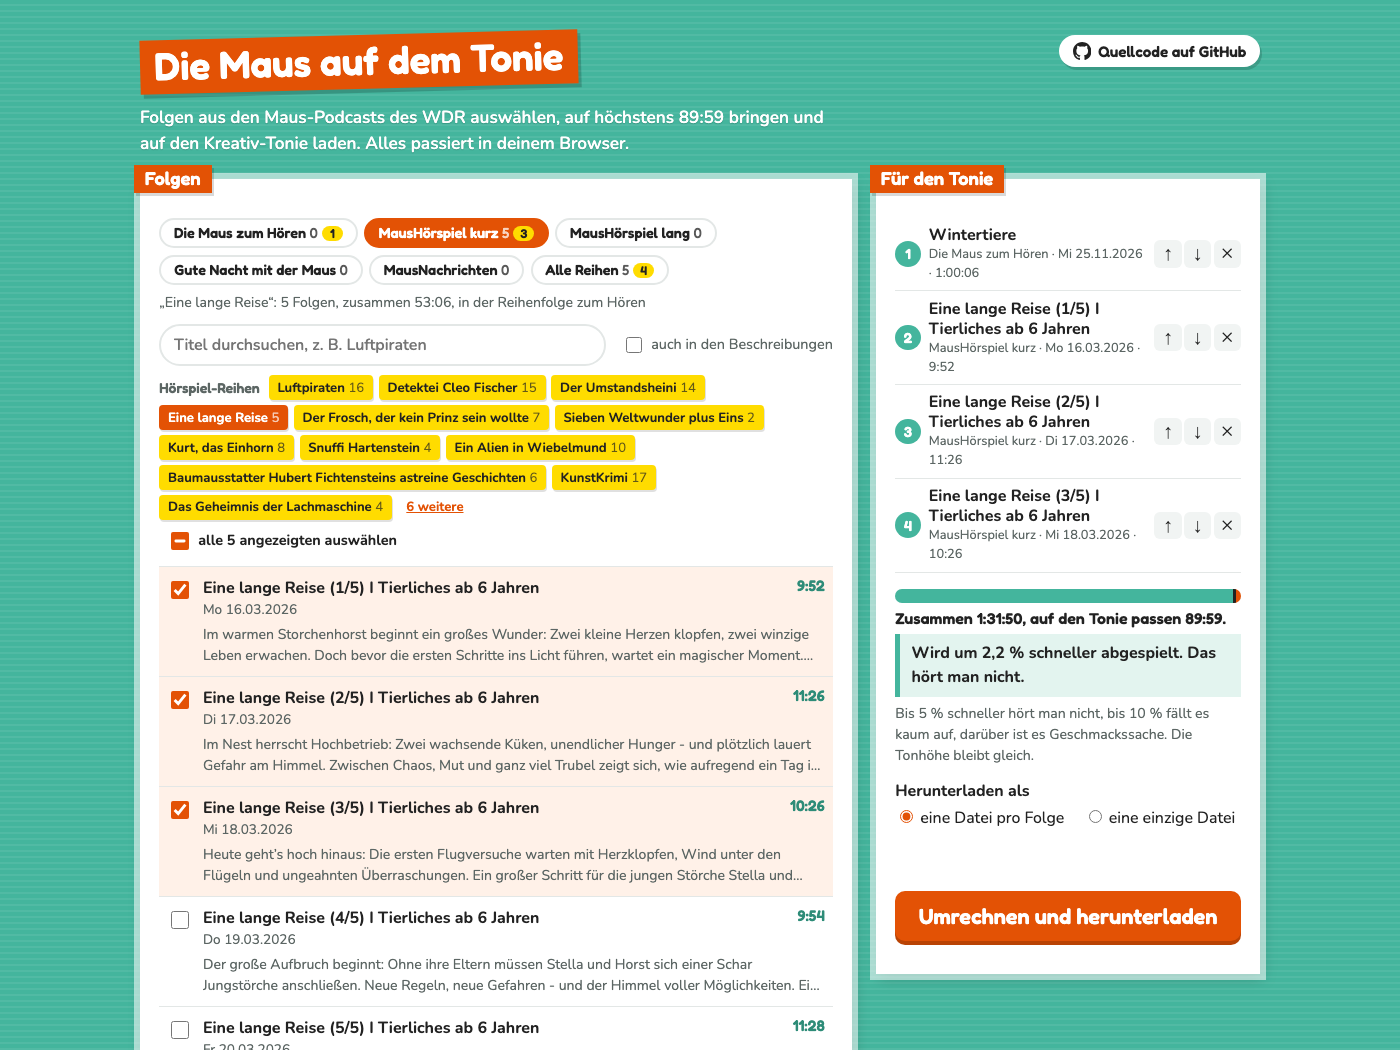
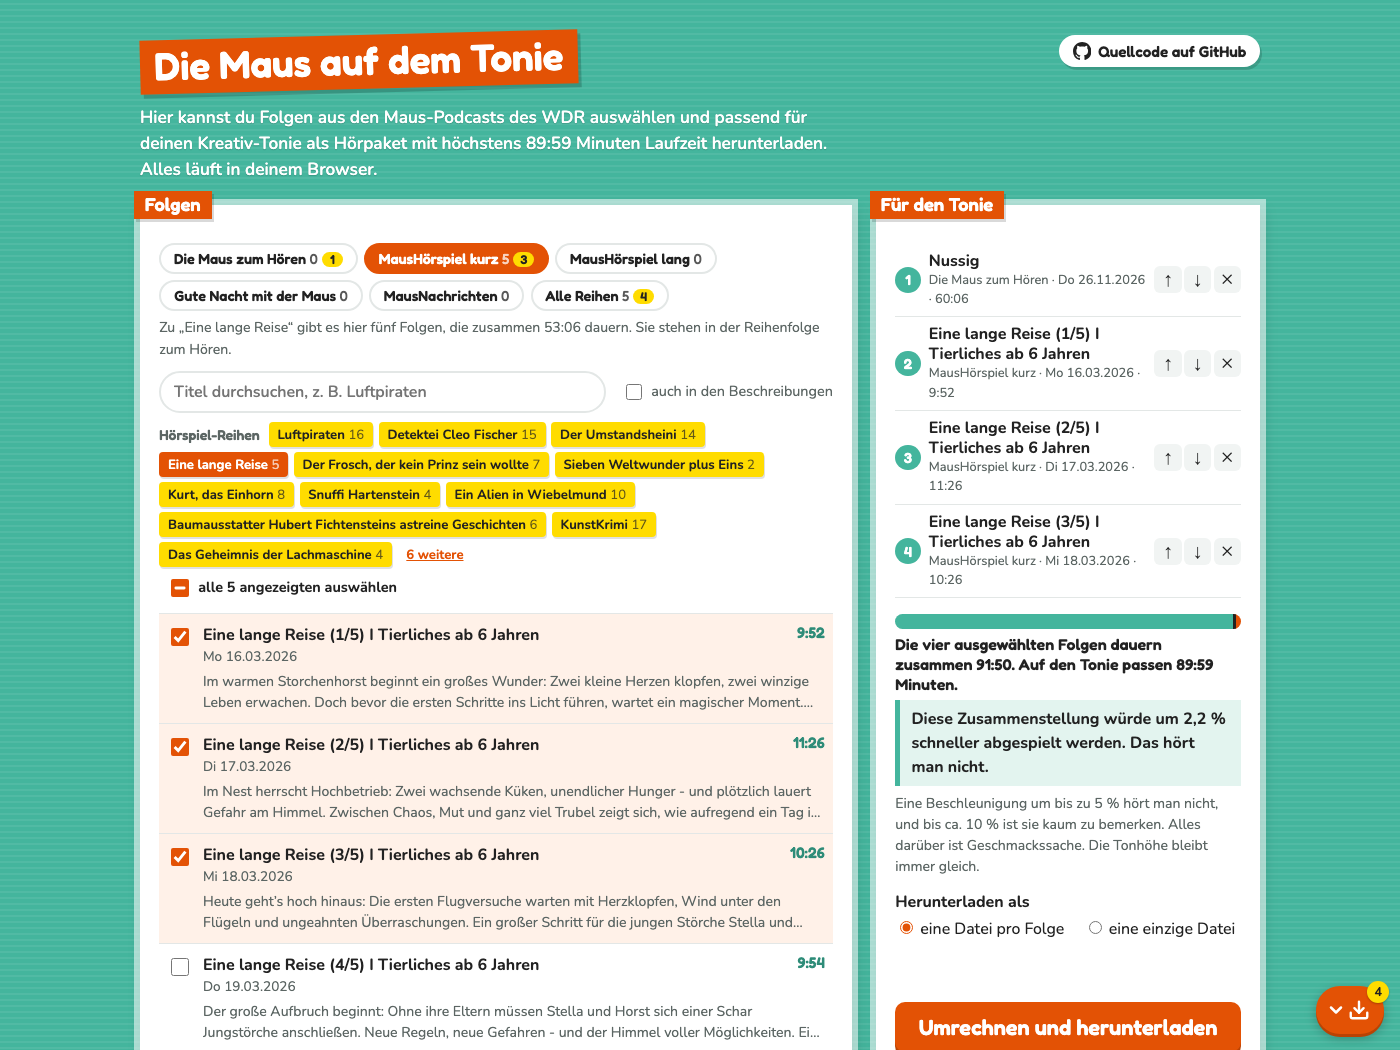
README: why the project changed, and a new screenshot with the new texts

Changed region(s): [[0.0921, 0.0914, 1.0, 1.0]]

diff --git a/README.md b/README.md
@@ -6,6 +6,8 @@ Since the COVID-19 pandemic of 2020, there is also a series of freely streamable
 
 For some weird reason however, in germany publicly funded and freely available media gets depublished after (approximately) one week of online availability. In the past, I have tried to keep track of the newly published episodes, but some slipped between my fingers. I therefore set out to create this small automation tool (which can be run as a cron job, for example) to automatically collect and download any newly appearing mp3 audio files.
 
+With the newest iteration of this project (and my son's age-related loss of keen interest in Maus content), I shifted the focus from data preservation to tool usability and the publication as a readily available web service via GitHub Pages.
+
 ## In the browser: "Die Maus auf dem Tonie"
 
 **https://sebastian-lapuschkin-sideprojects.github.io/gute-nacht-mit-der-maus-mp3-downloader/**
